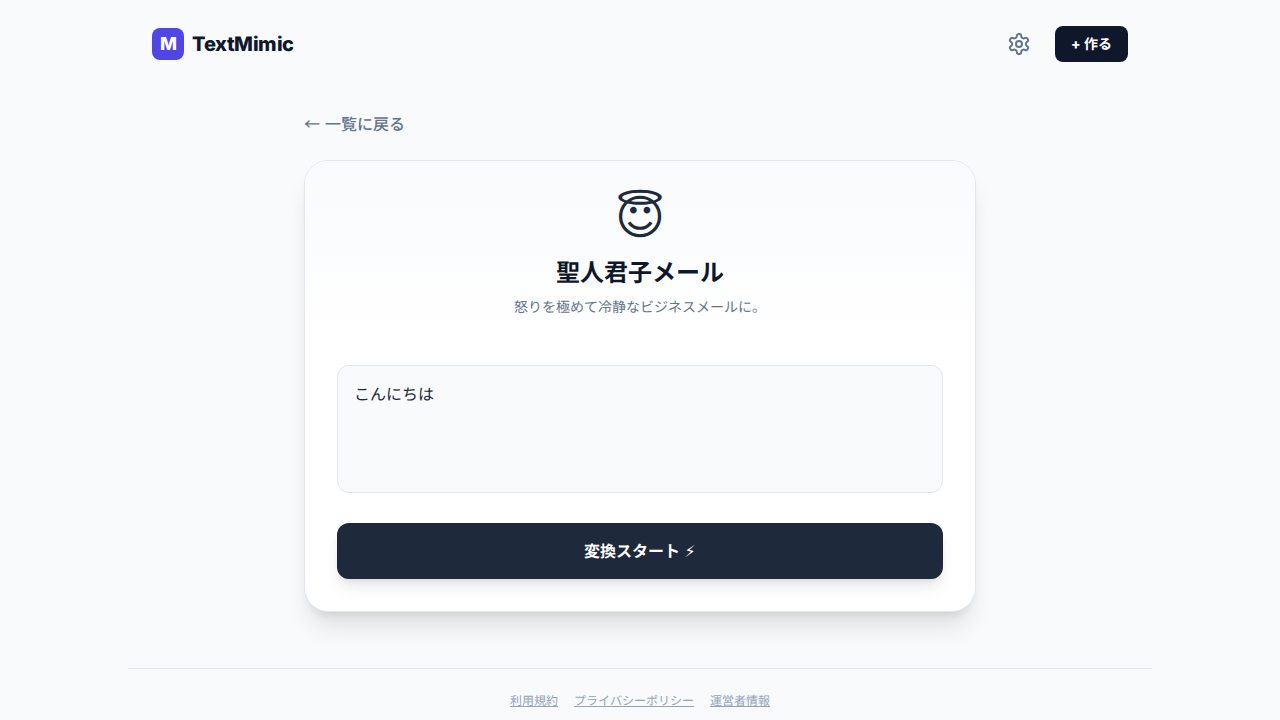
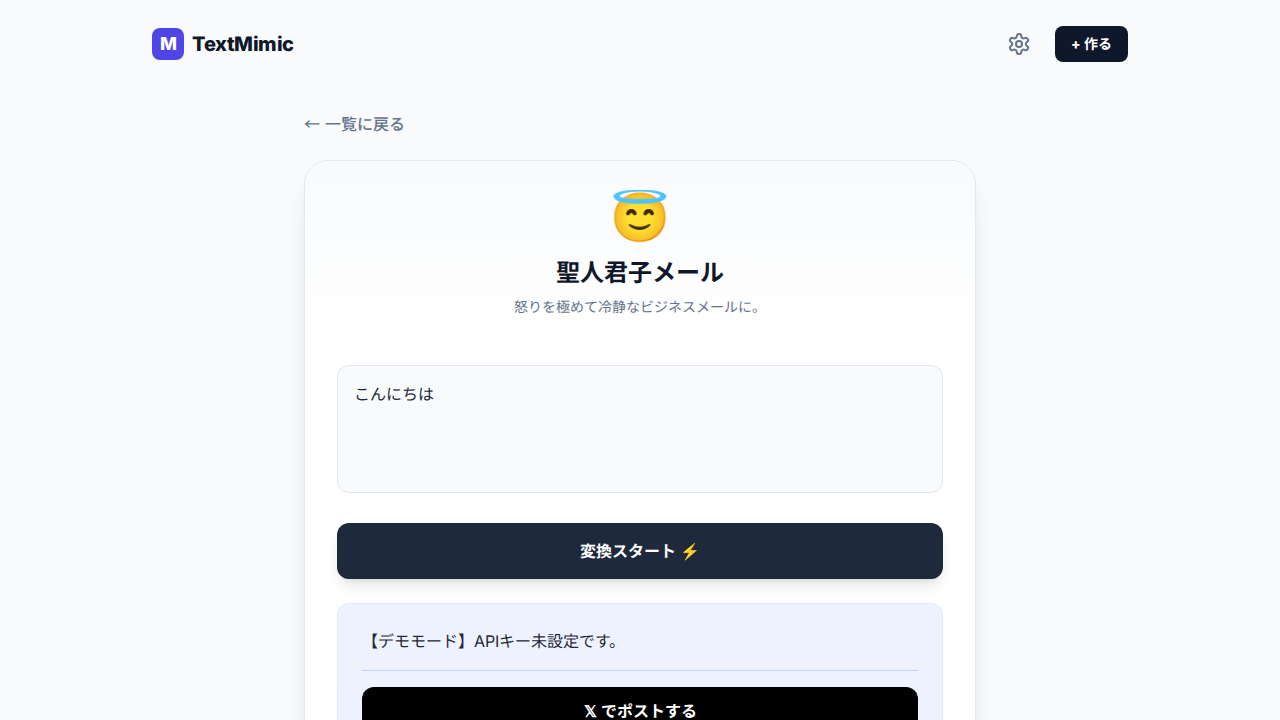
Switch API to OpenRouter and restrict model to deepseek-r1t2-chimera:free

diff --git a/index.html b/index.html
@@ -314,8 +314,8 @@
         const app = initializeApp(firebaseConfig);
         const db = getFirestore(app);
 
-        // ▼▼▼ Chutes.ai API KEY ▼▼▼
-        const SYSTEM_API_KEY = 'cpk_2e9498f987914bd697799c5e55961598.4b7f1379e5fd584a8708c89da5014f0d.ZLov3HxeOWBvj1aFDILjudjoRoOsoHSH';
+        // ▼▼▼ OpenRouter API KEY ▼▼▼
+        const OPENROUTER_API_KEY = ''; // ここにOpenRouterのAPIキーを入力してください
         // ▲▲▲
 
         const { createApp } = Vue;
@@ -329,10 +329,9 @@
                     showOperatorModal: false,
                     showSettingsModal: false,
                     // 設定
-                    selectedModel: 'openai/gpt-oss-20b',
+                    selectedModel: 'tngtech/deepseek-r1t2-chimera:free',
                     availableModels: [
-                        { id: 'openai/gpt-oss-20b', name: 'gpt-oss-20b' },
-                        { id: 'zai-org/GLM-4.5-Air', name: 'zai-org/GLM-4.5-Air' }
+                        { id: 'tngtech/deepseek-r1t2-chimera:free', name: 'deepseek-r1t2-chimera:free' }
                     ],
                     // ① 公式メーカー（プリセット）
                     officialMakers: [
@@ -378,14 +377,19 @@
                     this.isLoading = true;
                     this.outputText = '';
                     try {
-                        if (!SYSTEM_API_KEY) {
+                        if (!OPENROUTER_API_KEY) {
                             await new Promise(r => setTimeout(r, 1000));
                             this.outputText = "【デモモード】APIキー未設定です。"; 
                             this.isLoading = false; return;
                         }
-                        const response = await fetch('https://llm.chutes.ai/v1/chat/completions', {
+                        const response = await fetch('https://openrouter.ai/api/v1/chat/completions', {
                             method: 'POST',
-                            headers: { 'Content-Type': 'application/json', 'Authorization': `Bearer ${SYSTEM_API_KEY}` },
+                            headers: {
+                                'Content-Type': 'application/json',
+                                'Authorization': `Bearer ${OPENROUTER_API_KEY}`,
+                                'HTTP-Referer': window.location.href, // OpenRouter requirement
+                                'X-Title': 'TextMimic' // OpenRouter requirement
+                            },
                             body: JSON.stringify({
                                 model: this.selectedModel,
                                 messages: [

diff --git a/creator.html b/creator.html
@@ -87,8 +87,8 @@
         const app = initializeApp(firebaseConfig);
         const db = getFirestore(app);
 
-        // Chutes.ai API KEY (テスト用)
-        const SYSTEM_API_KEY = 'cpk_2e9498f987914bd697799c5e55961598.4b7f1379e5fd584a8708c89da5014f0d.ZLov3HxeOWBvj1aFDILjudjoRoOsoHSH'; // ←あなたのChutes.aiのキーを入れてください
+        // OpenRouter API KEY (テスト用)
+        const OPENROUTER_API_KEY = ''; // ←あなたのOpenRouterのキーを入れてください
 
         const { createApp } = Vue;
 
@@ -105,15 +105,20 @@
                     this.isLoading = true;
                     this.testResult = '';
                     try {
-                        if (!SYSTEM_API_KEY) { 
+                        if (!OPENROUTER_API_KEY) {
                             await new Promise(r => setTimeout(r, 1000));
                             this.testResult = "【デモ】APIキー未設定"; this.isLoading = false; return; 
                         }
-                        const response = await fetch('https://llm.chutes.ai/v1/chat/completions', {
+                        const response = await fetch('https://openrouter.ai/api/v1/chat/completions', {
                             method: 'POST',
-                            headers: { 'Content-Type': 'application/json', 'Authorization': `Bearer ${SYSTEM_API_KEY}` },
+                            headers: {
+                                'Content-Type': 'application/json',
+                                'Authorization': `Bearer ${OPENROUTER_API_KEY}`,
+                                'HTTP-Referer': window.location.href, // OpenRouter requirement
+                                'X-Title': 'TextMimic' // OpenRouter requirement
+                            },
                             body: JSON.stringify({
-                                model: "openai/gpt-oss-20b",
+                                model: "tngtech/deepseek-r1t2-chimera:free",
                                 messages: [ { role: "system", content: this.form.systemPrompt }, { role: "user", content: this.testInput } ],
                                 temperature: 0.7
                             })

diff --git a/verification/test_models.py b/verification/test_models.py
@@ -1,0 +1,50 @@
+from playwright.sync_api import sync_playwright
+import os
+import time
+
+def test_models_and_creator():
+    with sync_playwright() as p:
+        browser = p.chromium.launch(headless=True)
+
+        # Test 1: Check models in index.html
+        page = browser.new_page()
+        file_path_index = os.path.abspath("index.html")
+        page.goto(f"file://{file_path_index}")
+
+        # Open Settings
+        page.locator("button[title='設定']").click()
+        time.sleep(1)
+
+        # Check select options
+        options = page.locator("select option").all_text_contents()
+        print(f"Found models: {options}")
+        assert len(options) == 1, f"Expected 1 model, found {len(options)}"
+        assert "deepseek-r1t2-chimera:free" in options[0], "Expected deepseek-r1t2-chimera:free"
+
+        print("✅ index.html models verified.")
+        page.close()
+
+        # Test 2: Check creator.html
+        page = browser.new_page()
+        file_path_creator = os.path.abspath("creator.html")
+        page.goto(f"file://{file_path_creator}")
+
+        # Fill input
+        page.locator("input[placeholder='テスト用テキスト...']").fill("Hello")
+
+        # Click Run Test
+        page.get_by_text("テスト実行").click()
+
+        # Check for demo message
+        # Wait a bit for the async logic
+        time.sleep(2)
+
+        result_text = page.locator(".whitespace-pre-wrap").text_content()
+        print(f"Creator test result: {result_text}")
+        assert "【デモ】APIキー未設定" in result_text or "APIキー未設定" in result_text, "Expected demo message in creator"
+
+        print("✅ creator.html verified.")
+        browser.close()
+
+if __name__ == "__main__":
+    test_models_and_creator()
